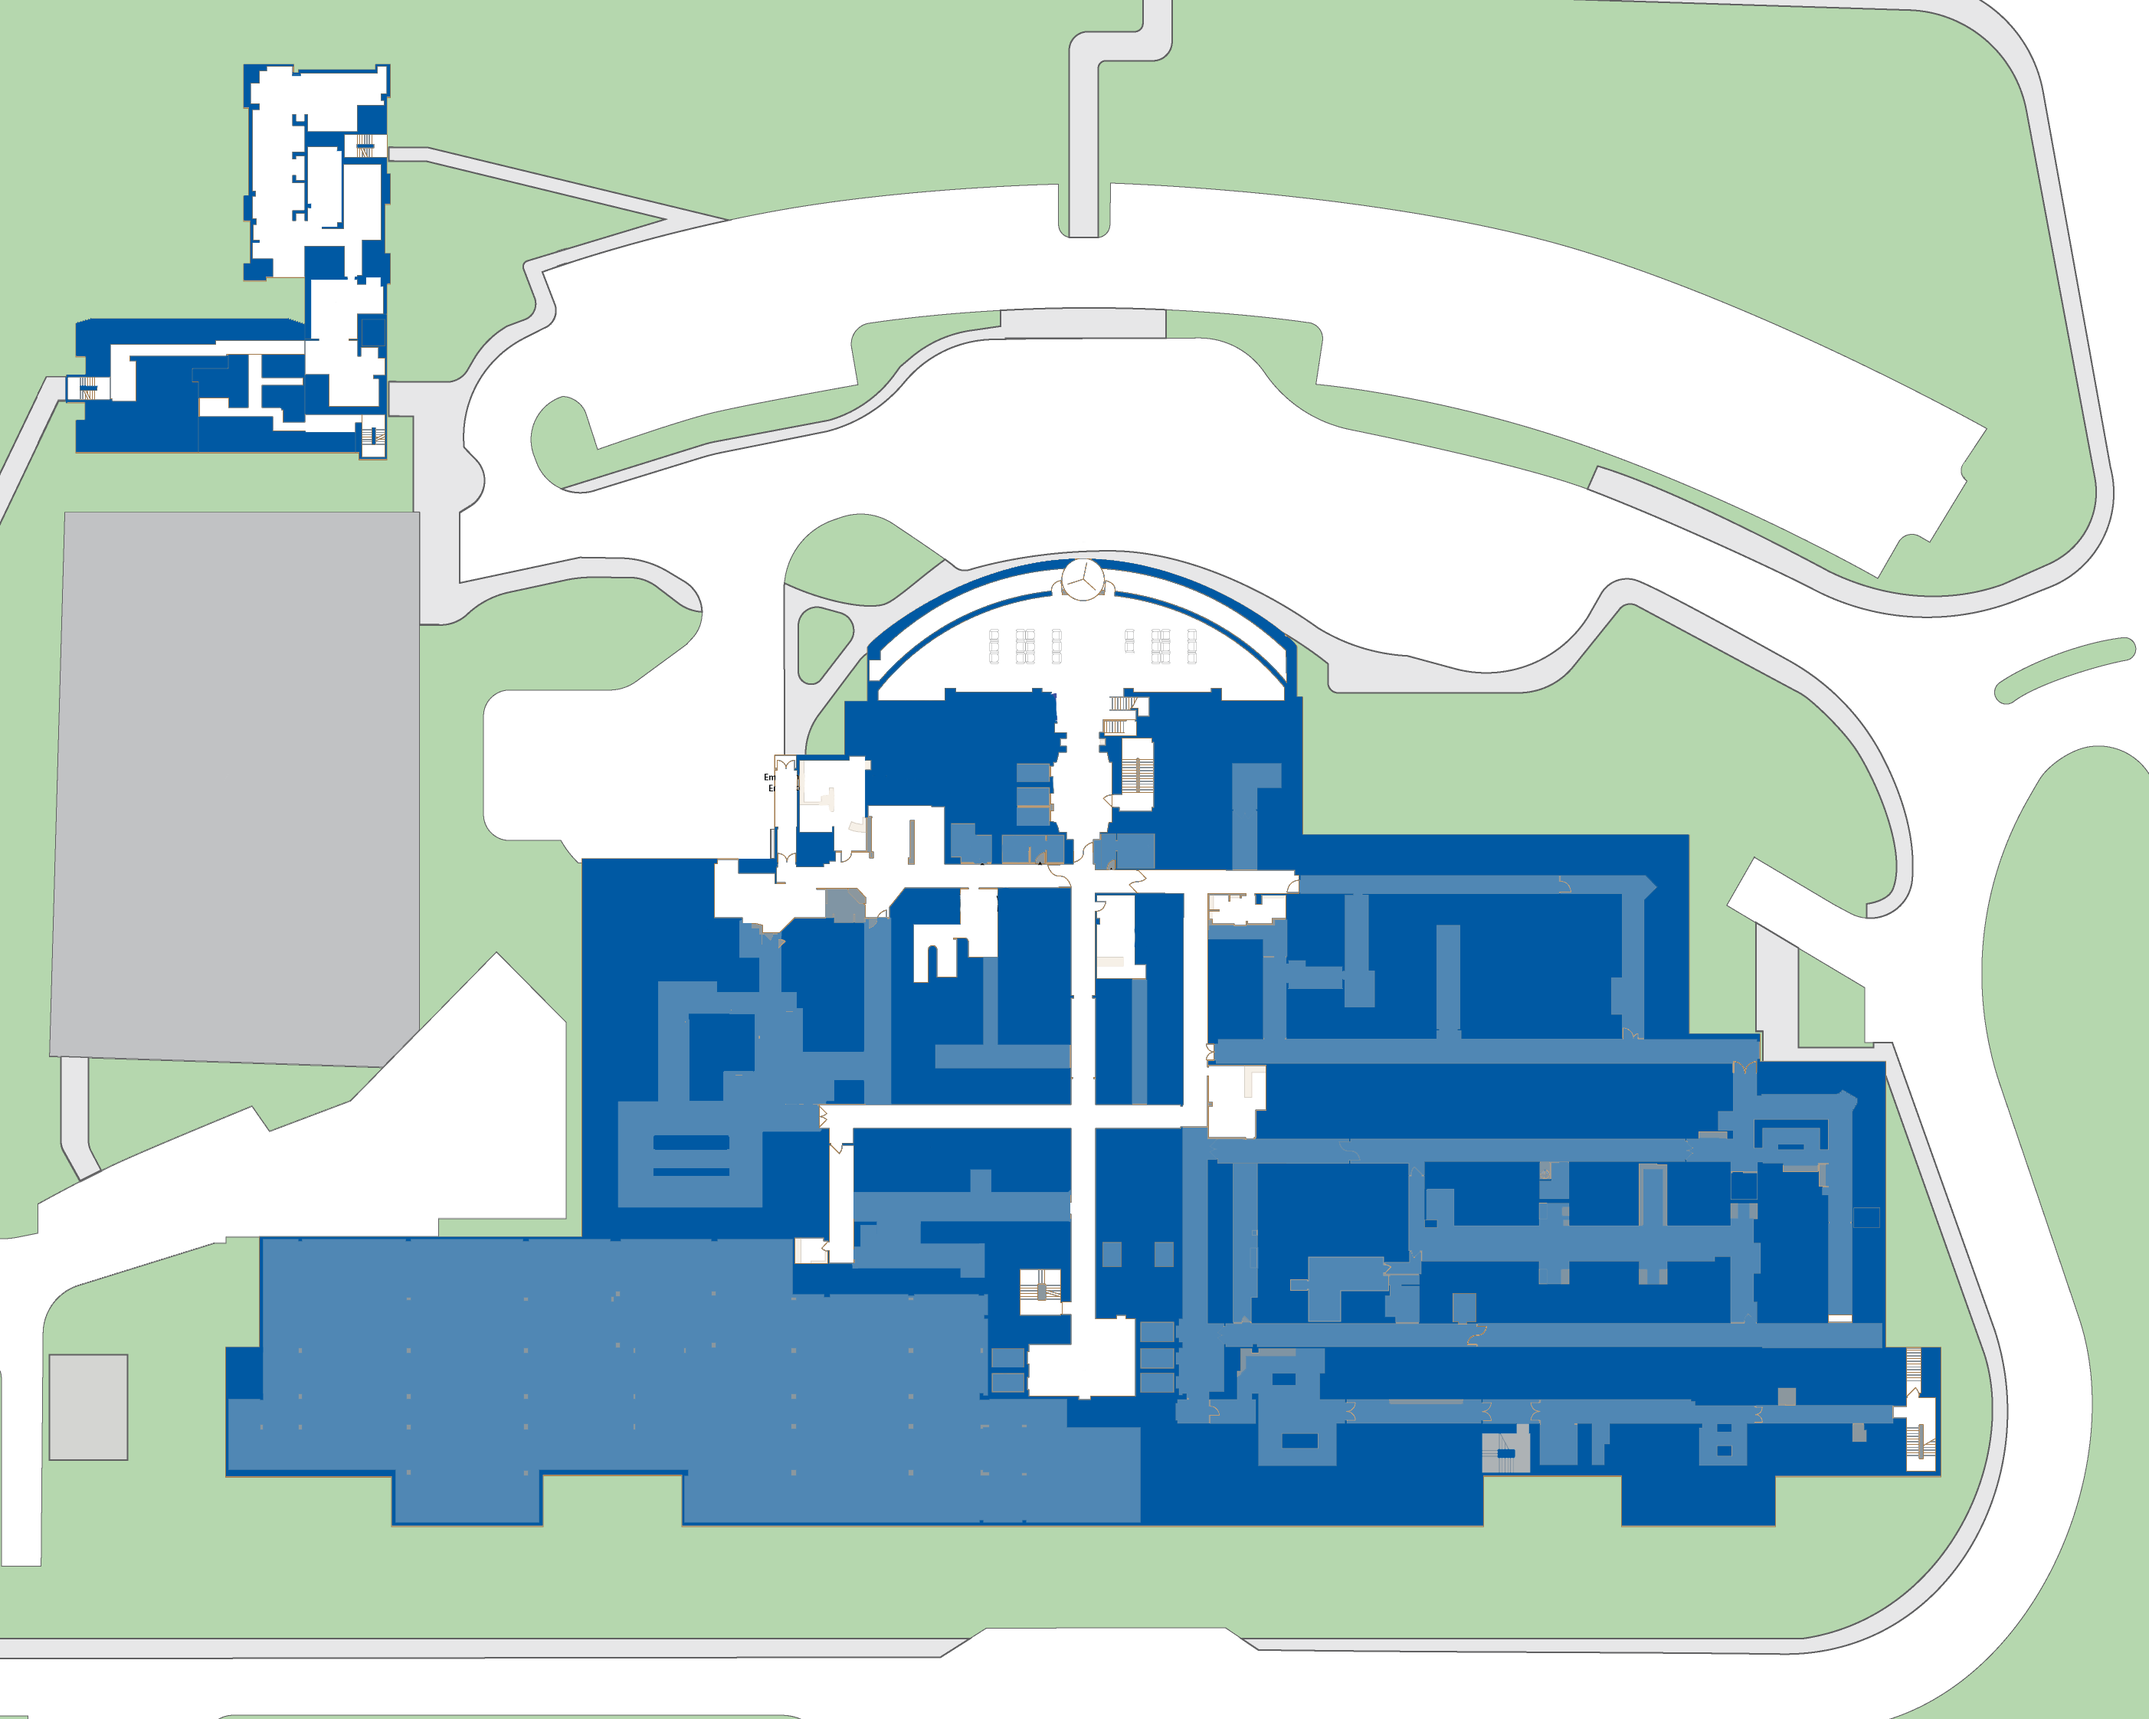
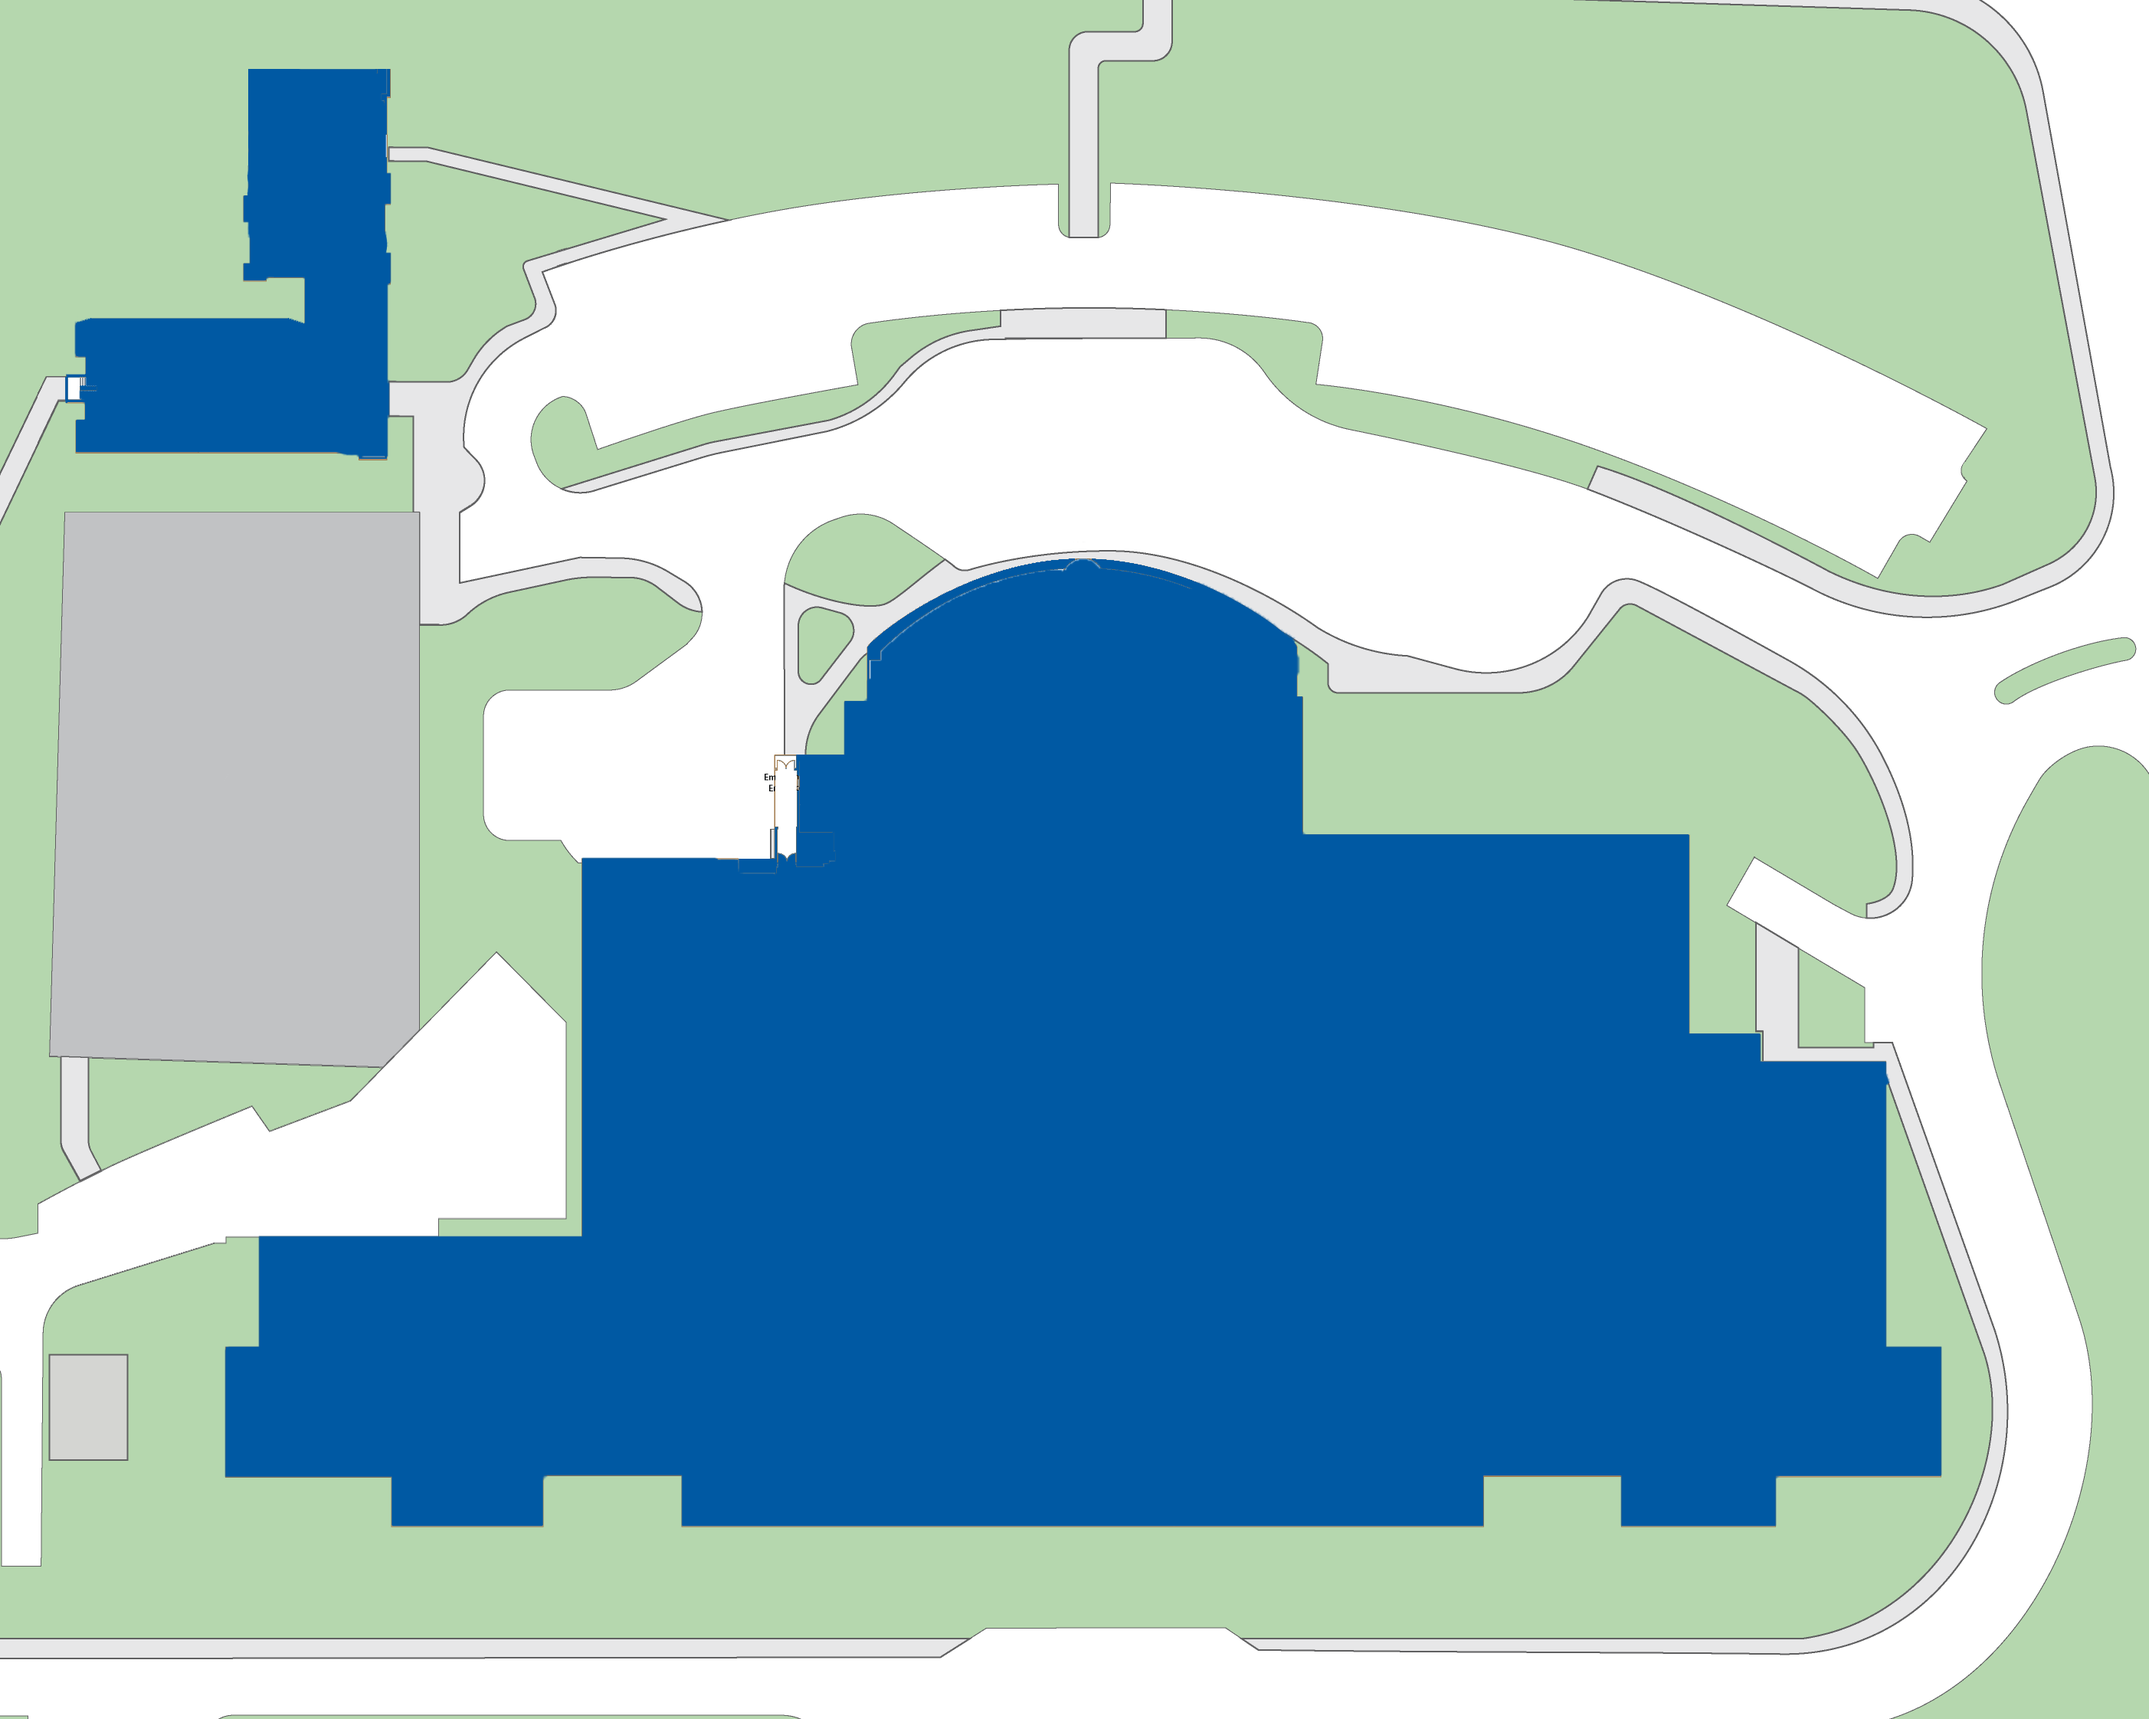
Updated the new floor thumbnails and add ones for Belkin and Ground floor

Changed region(s): [[0.093, 0.3119, 0.8995, 0.9046], [0.031, 0.0312, 0.1861, 0.2807]]

diff --git a/src/main/java/controllers/shared/Floor.java b/src/main/java/controllers/shared/Floor.java
@@ -19,9 +19,9 @@ public class Floor implements FloorImage
 
 	// Linked list containing the string names of the different floor images.
 	private LinkedList<String> thumbnails = new LinkedList<>(Arrays.asList(
-			"/Thumb_First_Floor.png", "/Thumb_Second_Floor.png", "/Thumb_Third_Floor.png",
-			"/Thumb_Fourth_Floor.png", "/Thumb_Fifth_Floor.png", "/Thumb_Sixth_Floor.png",
-			"/Thumb_Seventh_Floor.png"));
+			"/t_faulk1.png", "/t_faulk2.png", "/t_faulk3.png",
+			"/t_faulk4.png", "/t_faulk5.png", "/t_faulk6.png",
+			"/t_faulk7.png"));
 
 	// constructor for the floor class
 	public Floor(int floorNum) {
